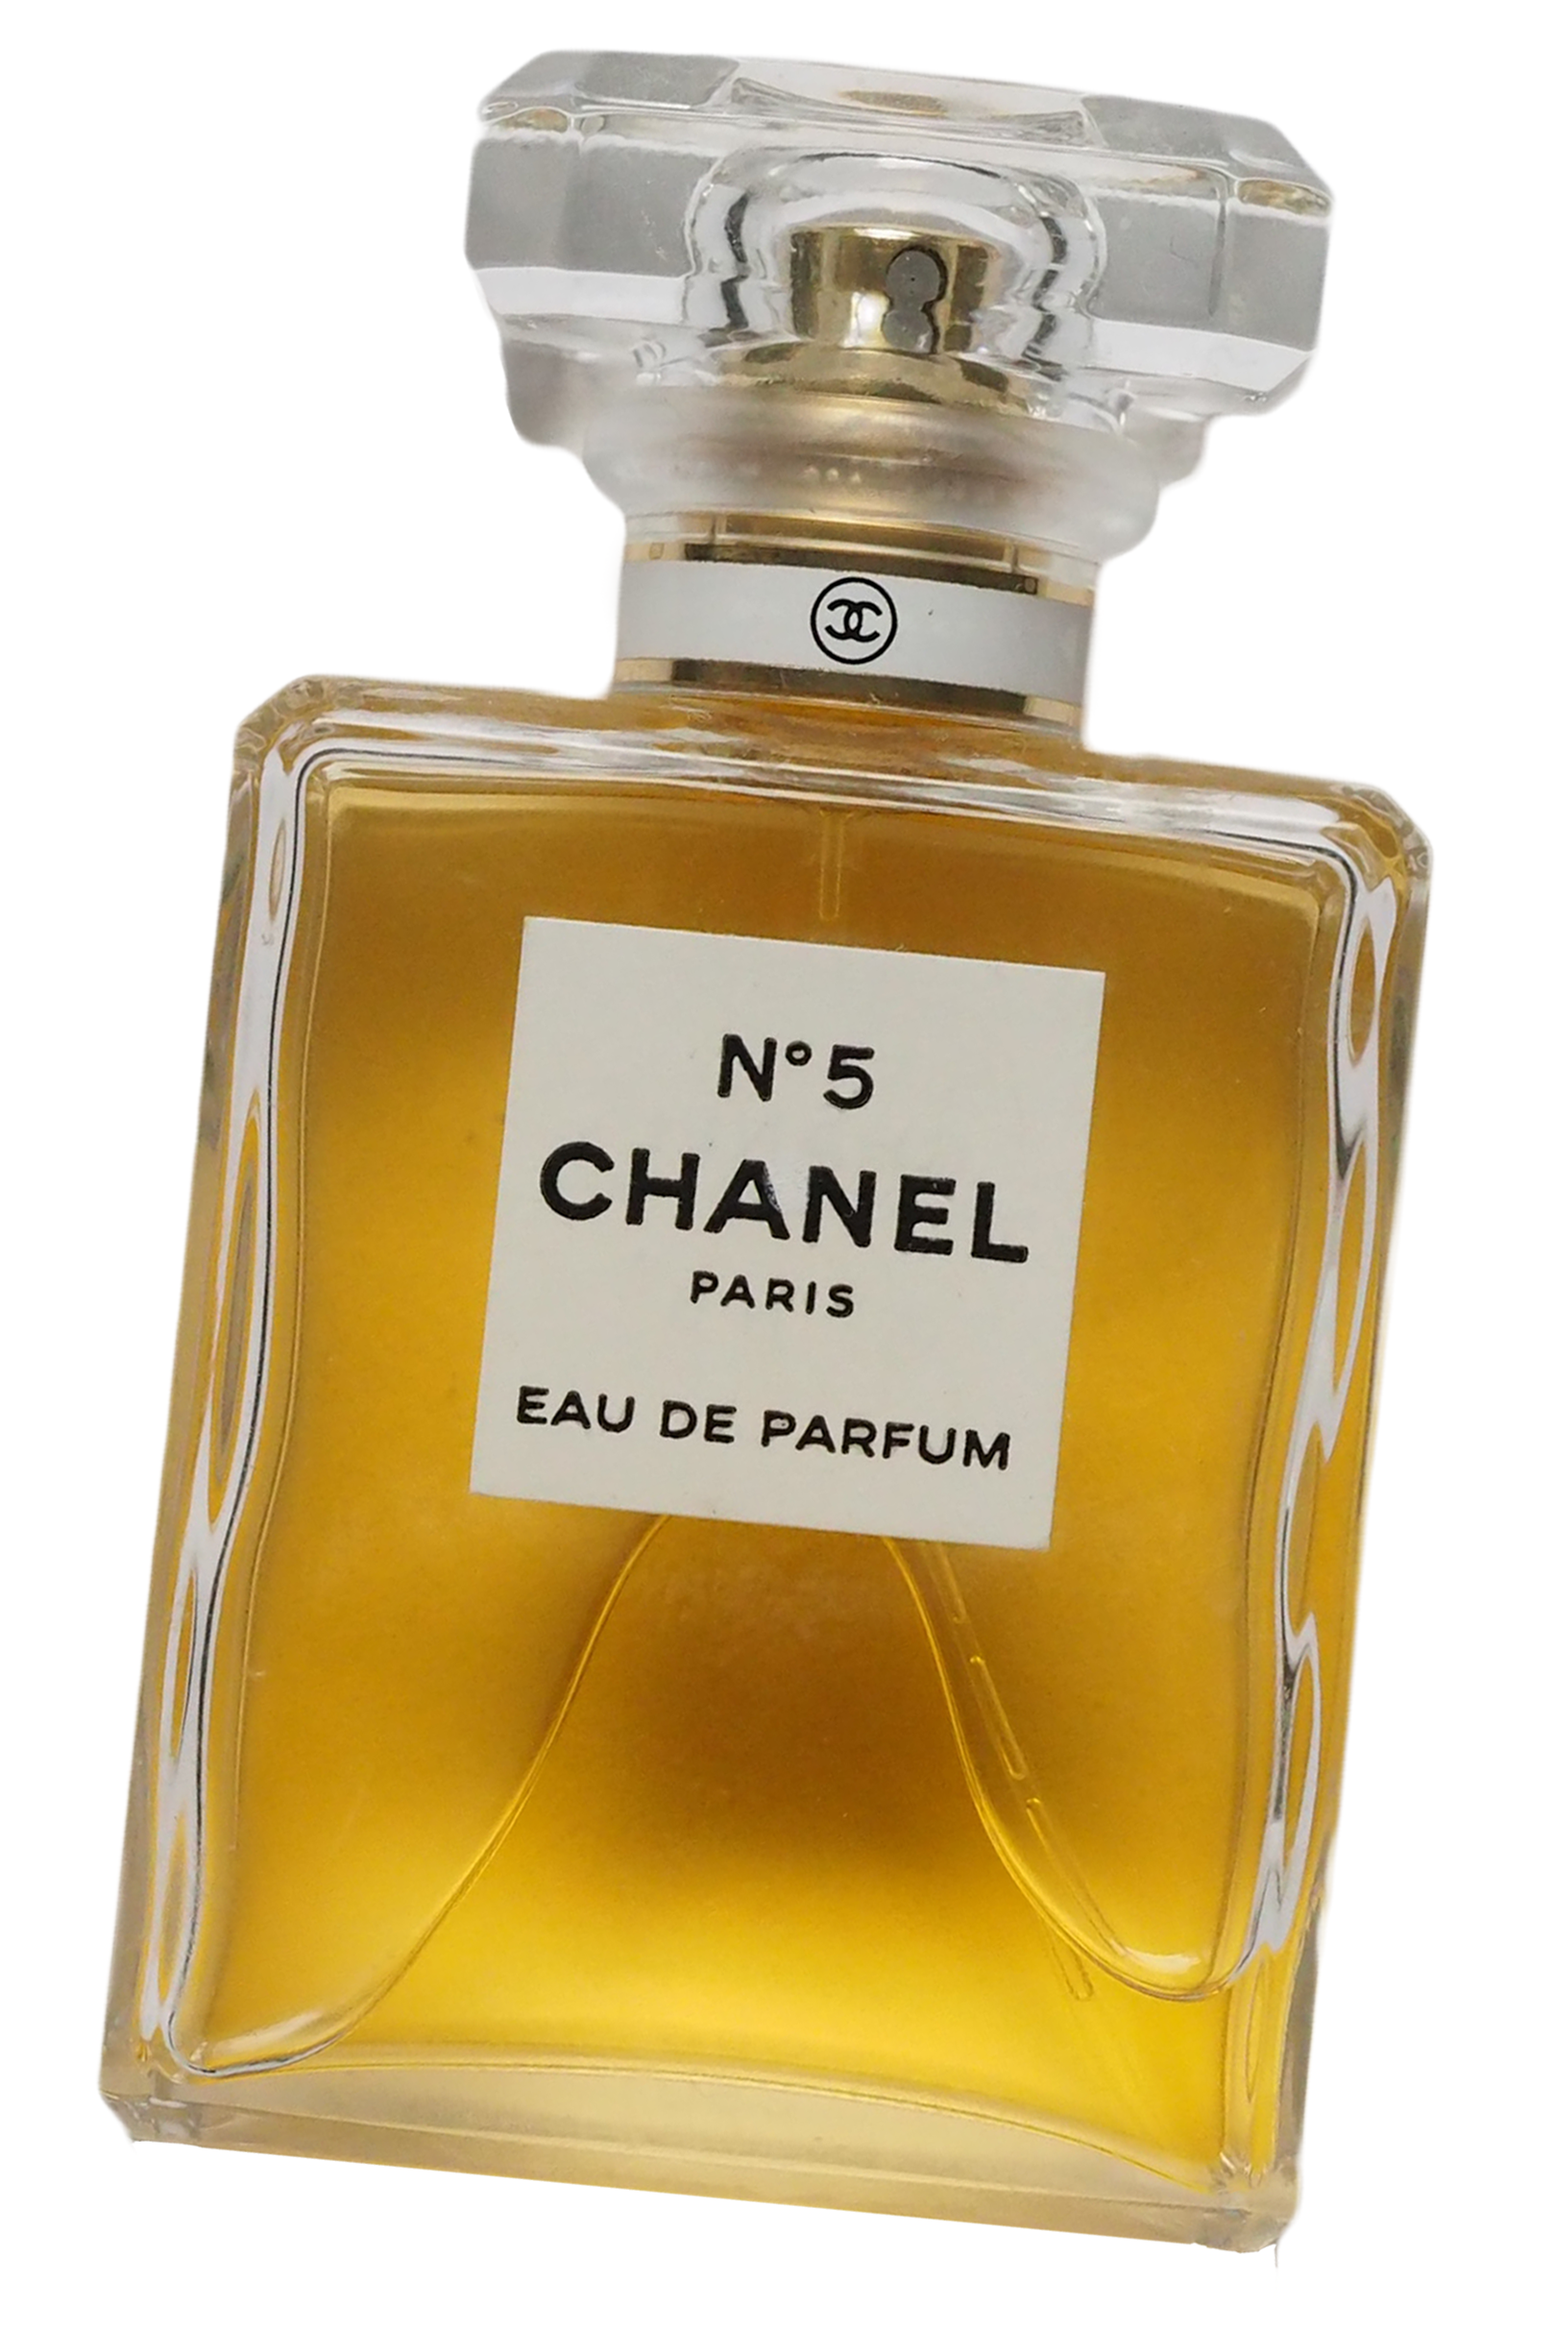
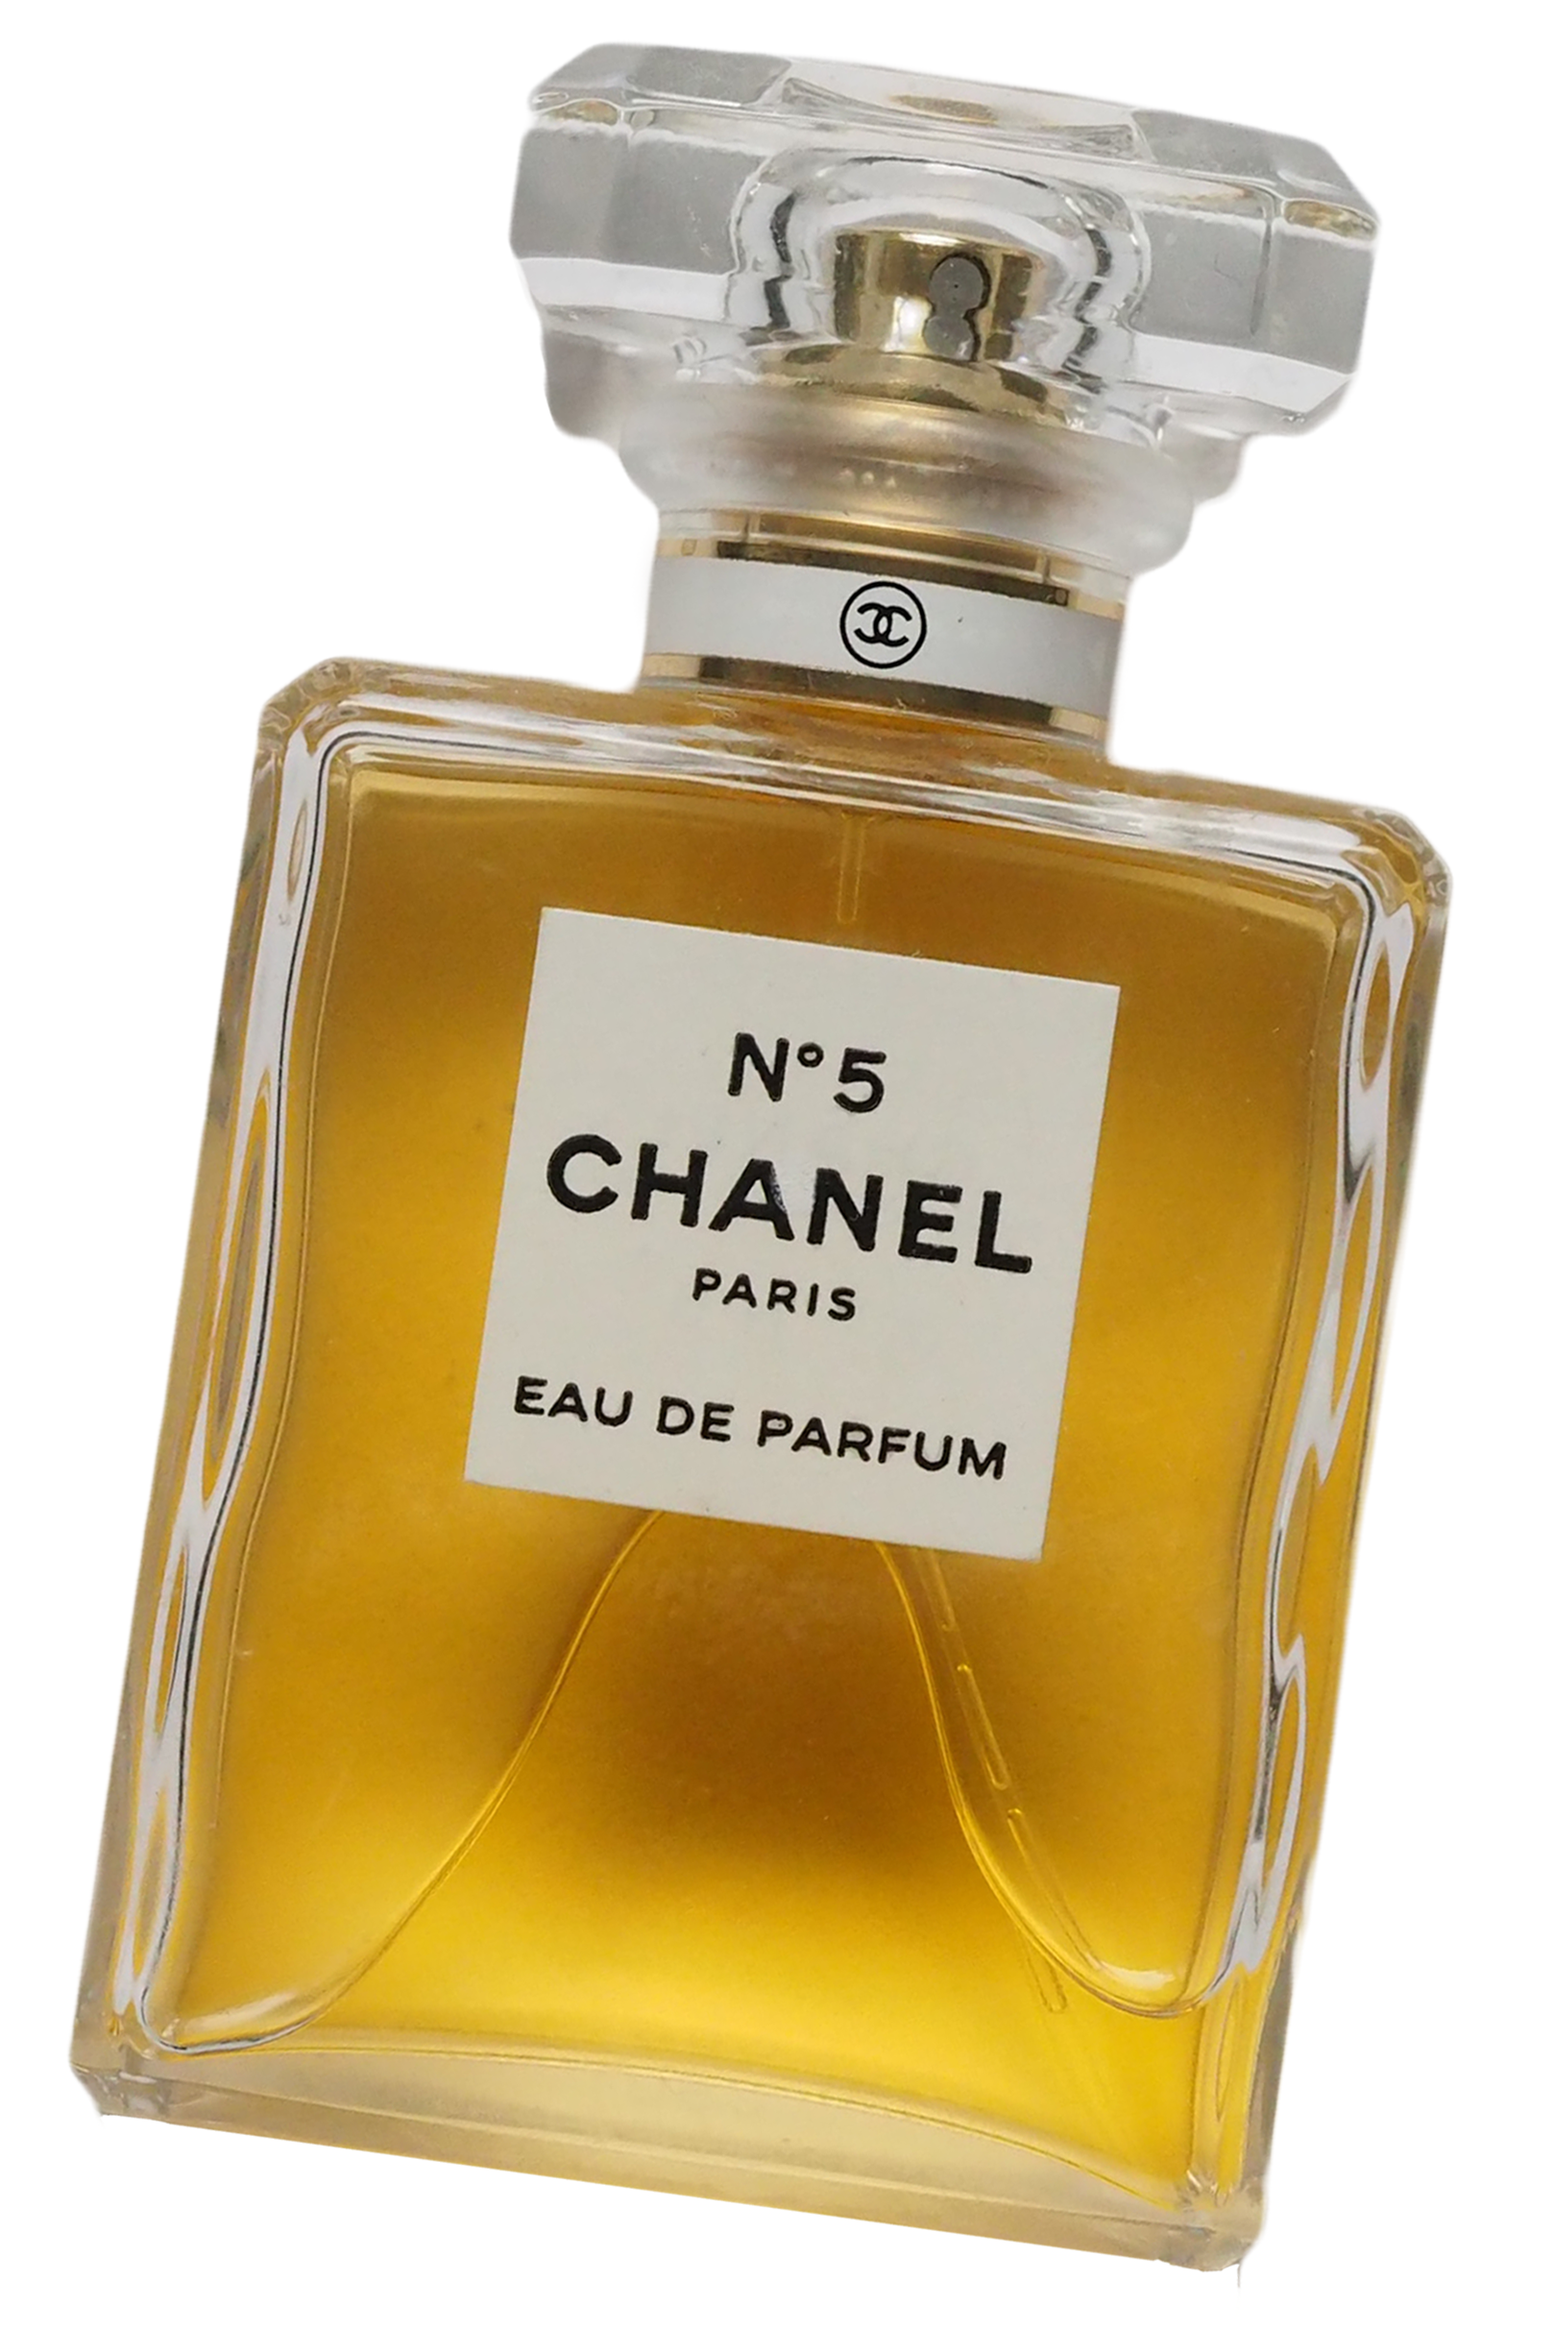
commit

diff --git a/style.css b/style.css
@@ -82,12 +82,16 @@ video {
     background-color: #100f0f;
 }
 
+.text-container, .image-container{
+    grid-column: 1;
+    grid-row: 1;
+}
+
 .appear {
     animation:entrance 1s cubic-bezier(.17,.67,.29,.13) forwards;
 }
 
 @keyframes entrance{
-
     90%{
         background-color:#100f0f;
     }
@@ -109,8 +113,9 @@ video {
 }
 
 h1{
-    margin:0.2rem;
+    margin:0rem;
     color:#eeddce;
+    font-size:34px;
 }
 
 .change-color{
@@ -125,11 +130,9 @@ h1{
 }
 
 .image-container{
-    position:absolute;
-    left:50%;
-    margin-right: -50%;
-    transform: translateX(-50%);
     opacity:0;
+    display:grid;
+    justify-content: center;
 }
 
 .image-appear{
@@ -141,11 +144,11 @@ h1{
 @keyframes perfume{
     0%{
         opacity:0;
-        transform: scale(0.2) translateX(-250%);
+        transform: scale(0.2)
     }
 }
 img{
-    width:225px;
+    width:180px;
 }
 
 .left, .right{
